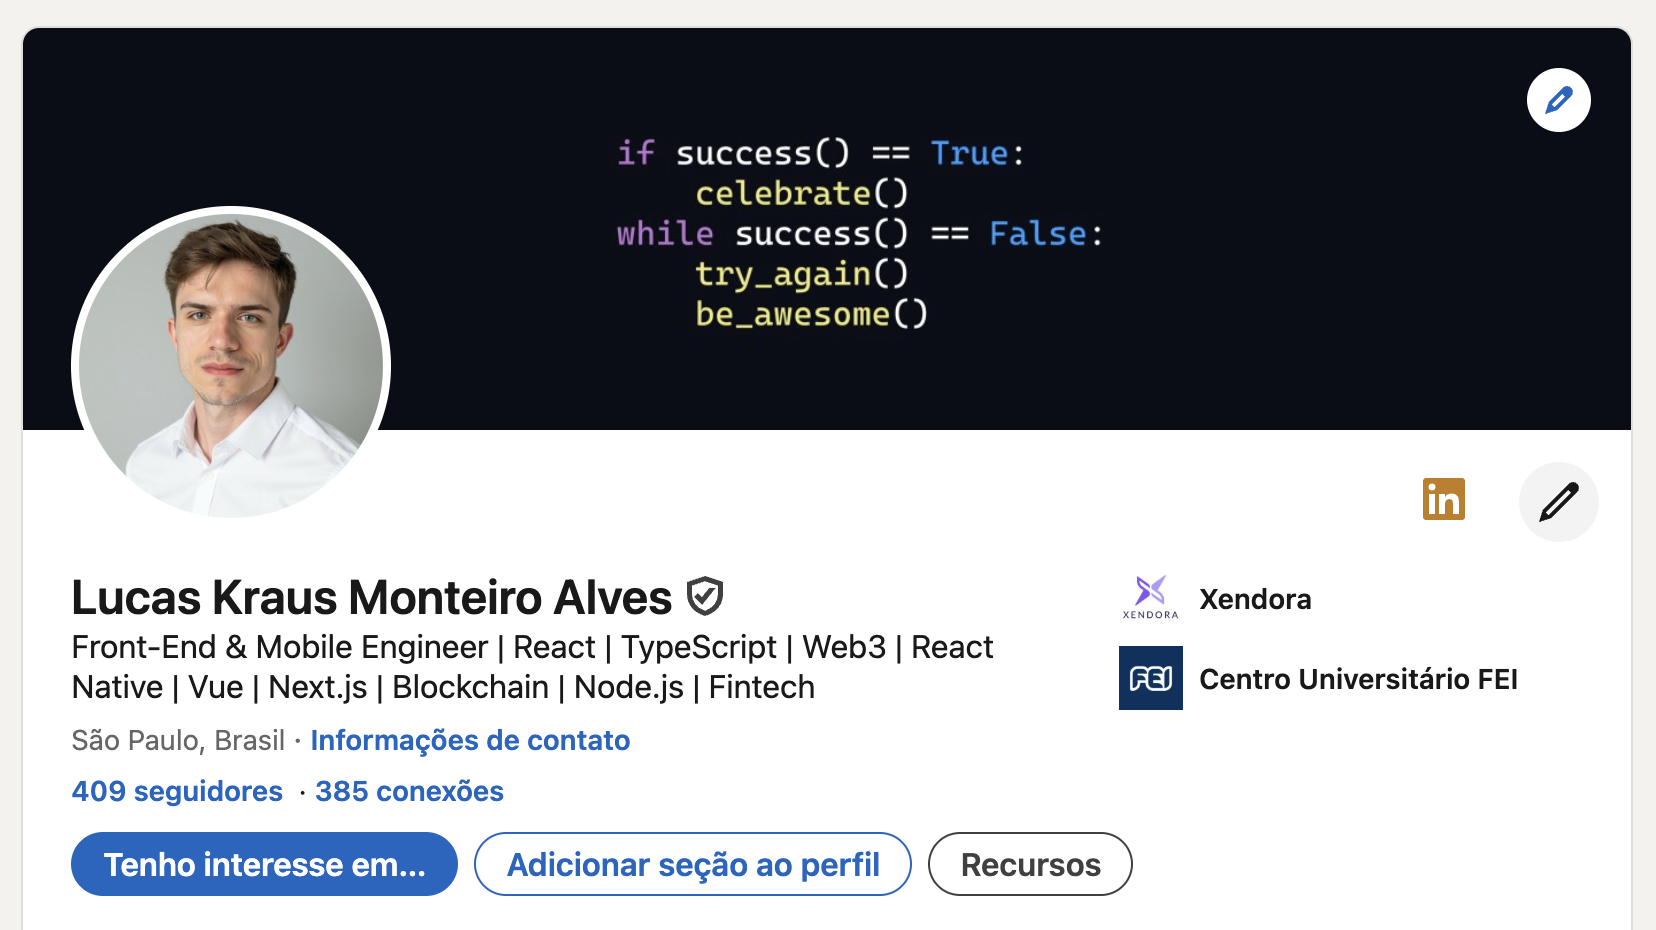
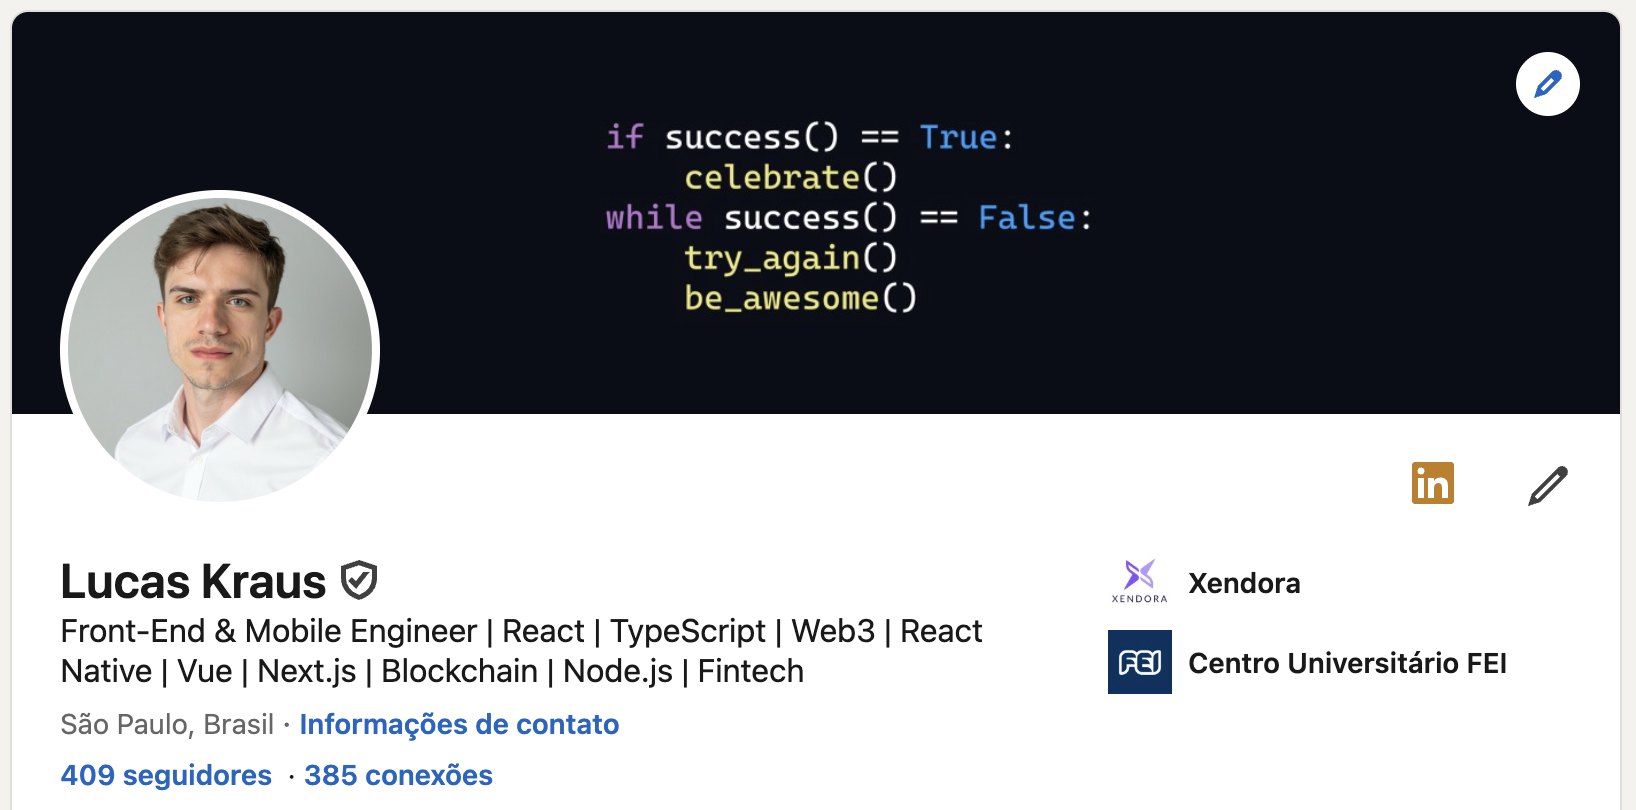
Update LinkedIn profile link and modify text formatting in Picture component for improved clarity.

diff --git a/src/components/Picture.tsx b/src/components/Picture.tsx
@@ -11,9 +11,7 @@ export default function Picture() {
         <Image src={notionFacePng} alt="Notion Face" width={200} />
       </div>
       <div className="flex flex-col gap-2">
-        <p className="text-lg font-light text-center">
-          Hello, World! My name is{' '}
-        </p>
+        <p className="text-lg text-center">Hello, World! My name is </p>
         <motion.h1
           className="bg-clip-text text-4xl leading-tight font-bold text-transparent select-none text-center"
           style={{

diff --git a/src/components/WhereToFindMe.tsx b/src/components/WhereToFindMe.tsx
@@ -13,7 +13,7 @@ export default function Projects() {
     },
     {
       name: 'LinkedIn',
-      link: 'https://www.linkedin.com/in/lucas-kraus-monteiro-alves-00200b252/',
+      link: 'https://www.linkedin.com/in/lucas-kraus-00200b252/',
       image: linkedinProfileImage,
       icon: faLinkedin,
       iconColor: '#0077B5',
